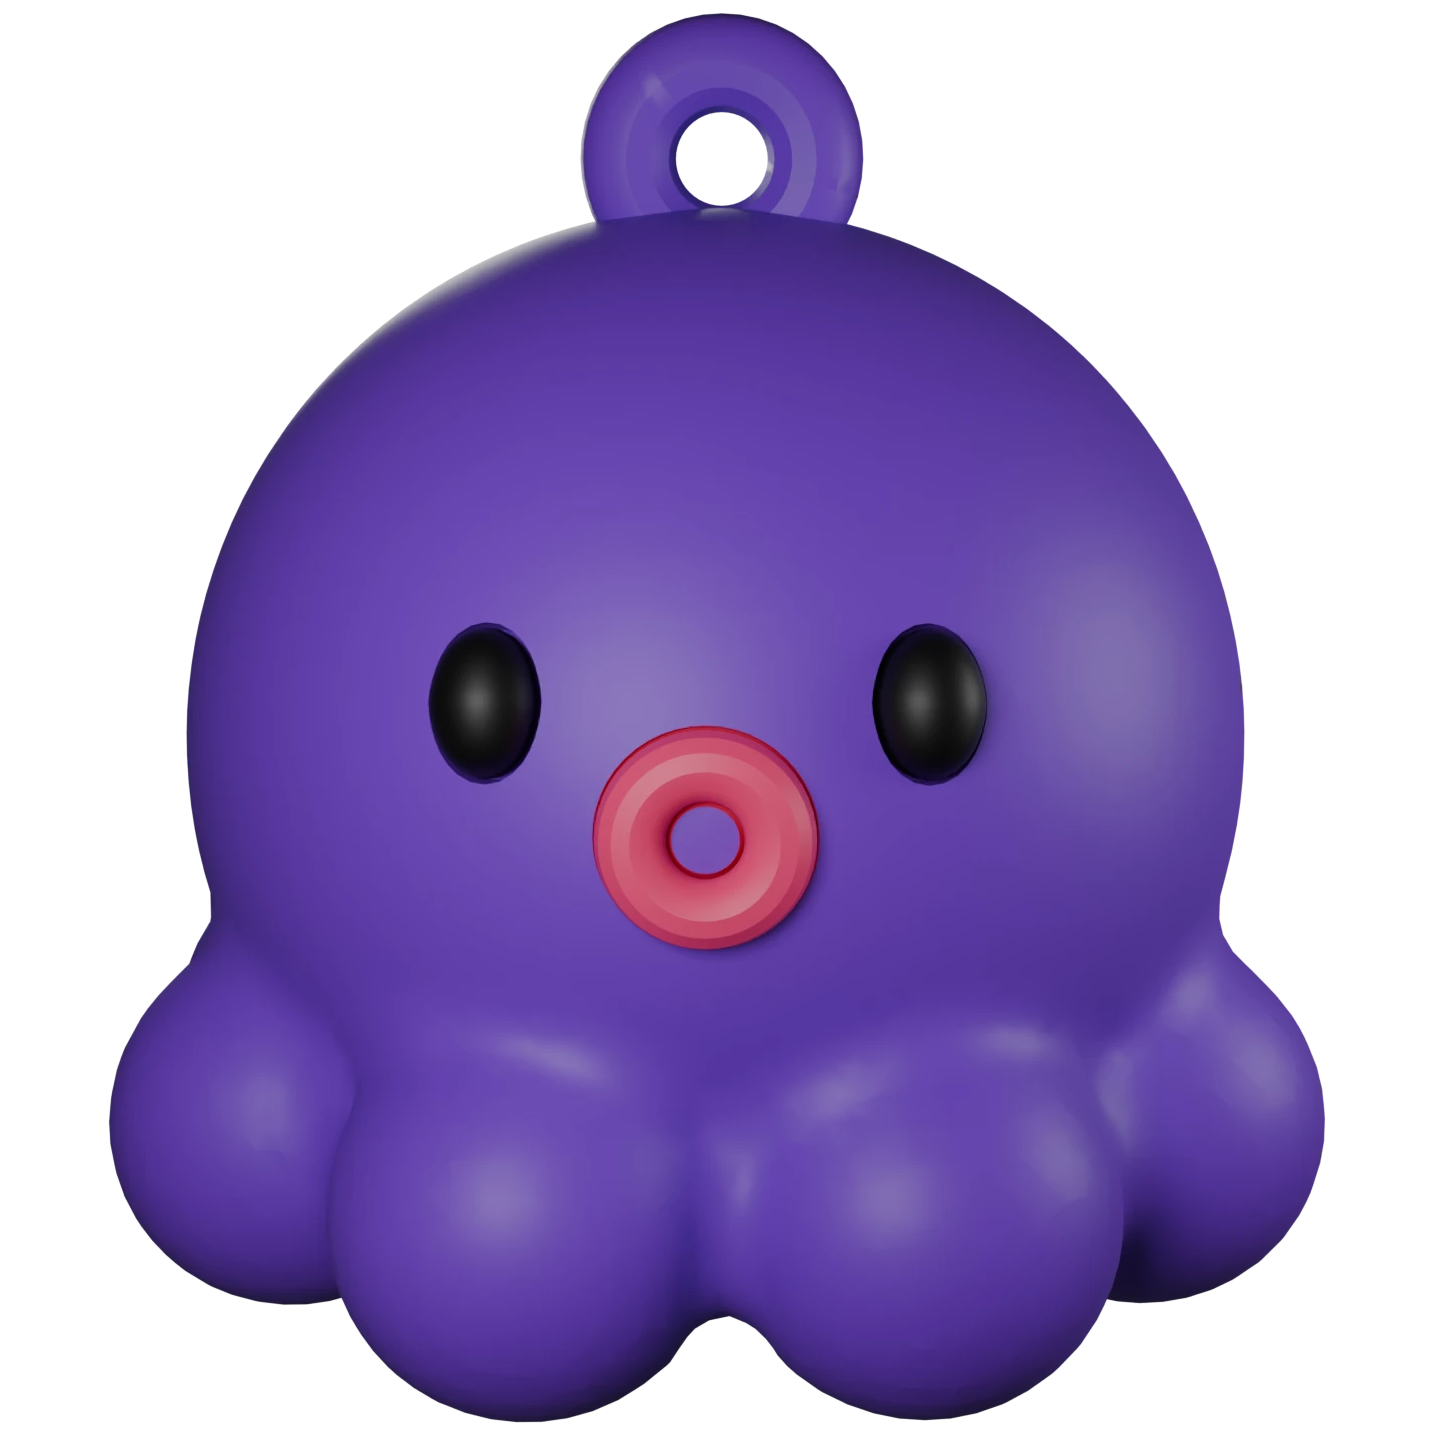
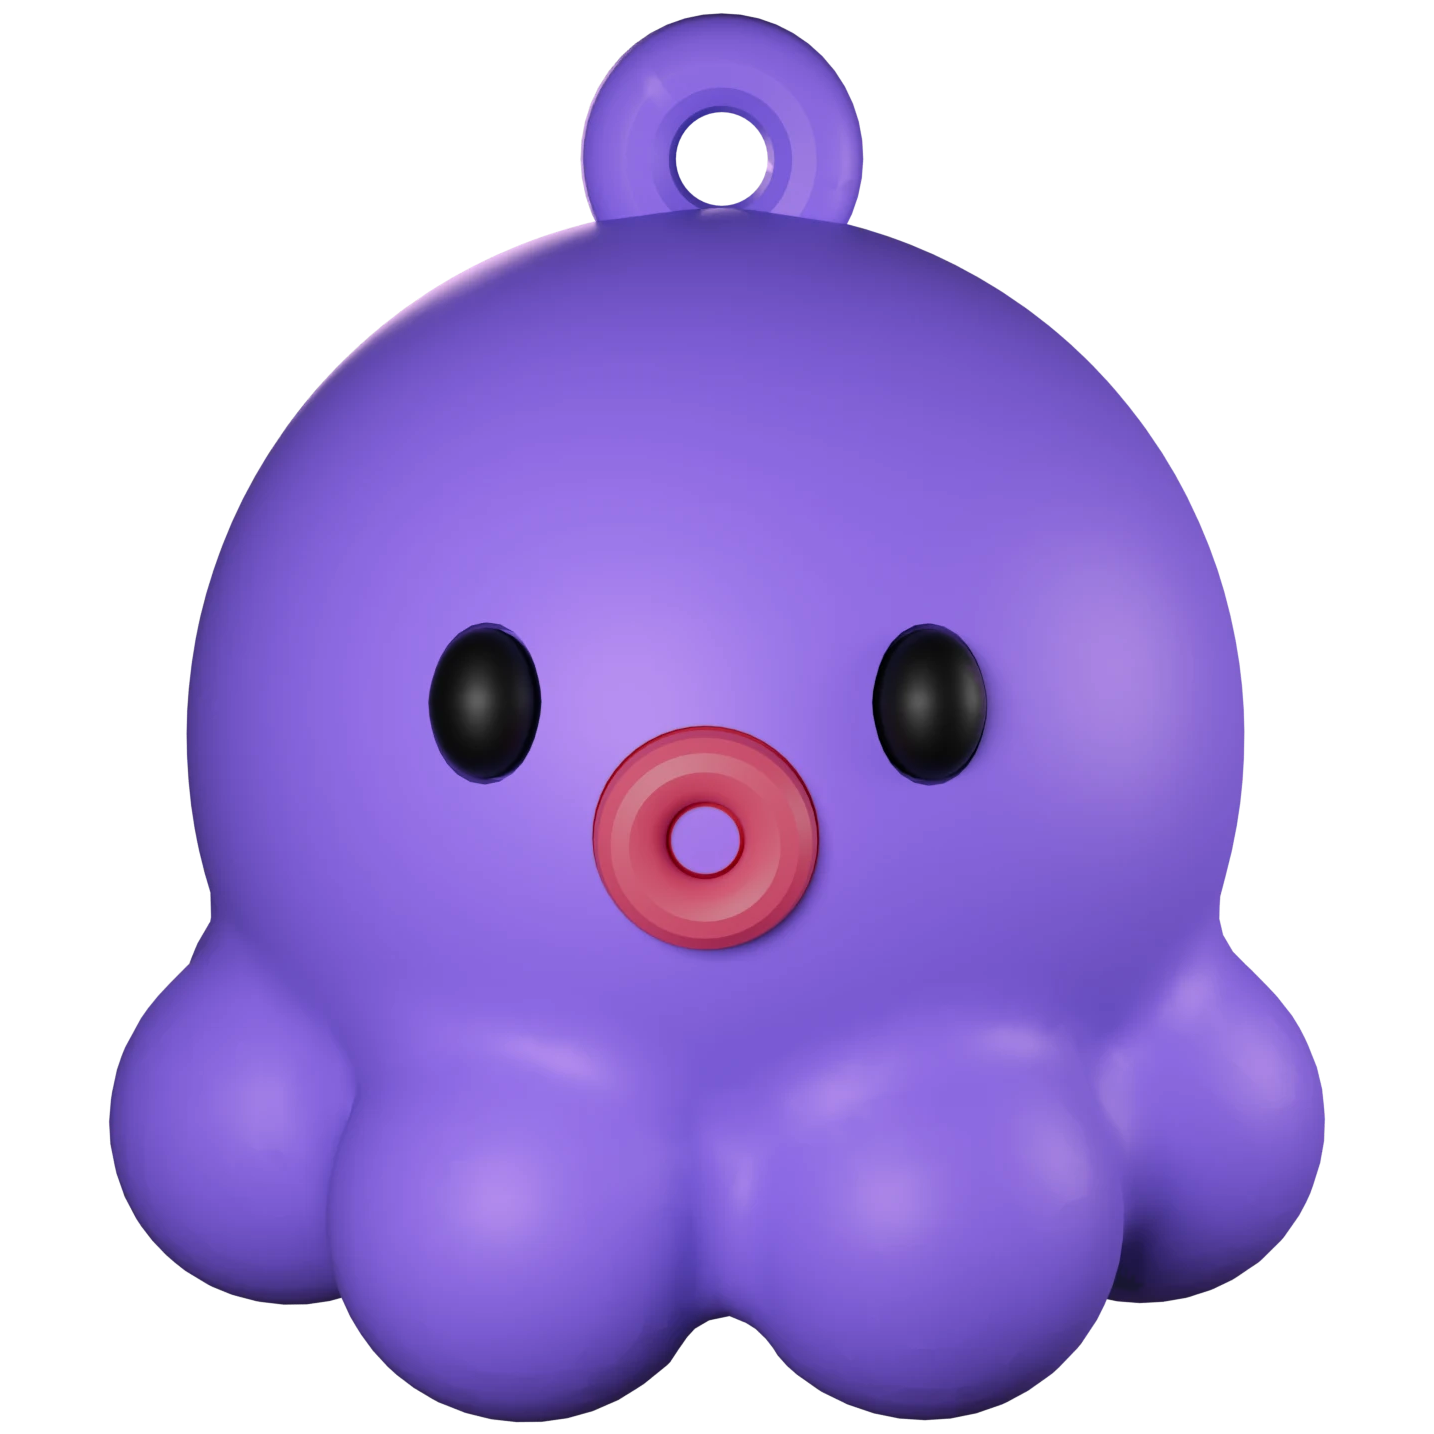
Purple octopus: color-corrected render matching printed piece
Claude-Session: https://claude.ai/code/session_01AQMCNjGQ1RjZg5f4v5YFio

diff --git a/pulpos-mystery-box/CONCEPTO.md b/pulpos-mystery-box/CONCEPTO.md
@@ -122,3 +122,5 @@ Fotos de ambiente: arena de playa con agua desenfocada y fondo marino turquesa c
 - Serie actual: **morado**, rojo, amarillo, azul, verde + secreto arcoíris. En el generador, `PURP` sustituye a `PINKO`.
 - Morado y rojo comparten el mismo recorte cuadrado (277,285 → 1711,1719 del render de 2000 px) para conservar la escala entre ellos.
 - Los colores del envoltorio (fondo amarillo, título rosa oscuro, texto azul) no cambian.
+- Color del morado (22/11): objetivo medido en las fotos del pulpo impreso = RGB(131, 99, 216) / #8363D8. Los renders de Blender salían más oscuros (≈ #685AAE) aunque se cambió el Hex y la exposición, así que se corrigió el render por post-proceso (ganancia lineal por canal sólo en el cuerpo, sin tocar ojos ni labios). `pulpos/morado.png` queda en #8362D7; `morado_original_2000.png` guarda el PNG corregido completo.
+- Pendiente en Blender: que la exposición y el color base se apliquen de verdad (comprobar View Transform = Standard, Exposure y el material correcto del cuerpo) para que los demás renders salgan ya bien.
